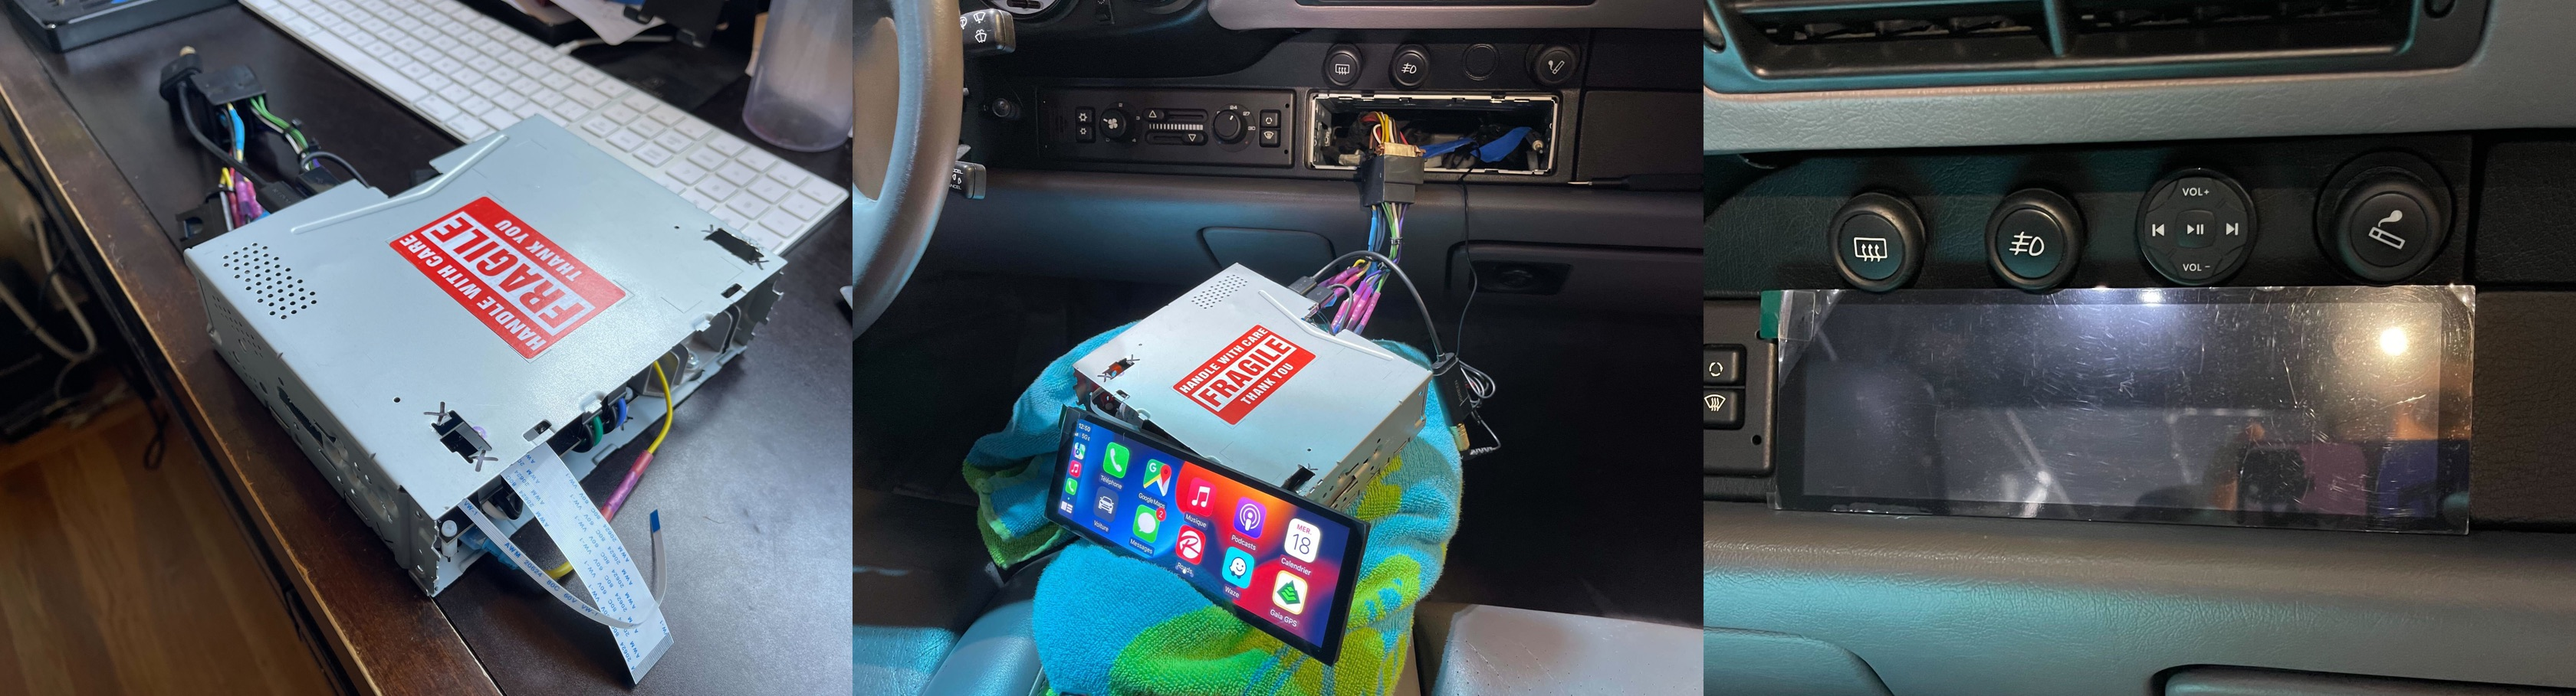
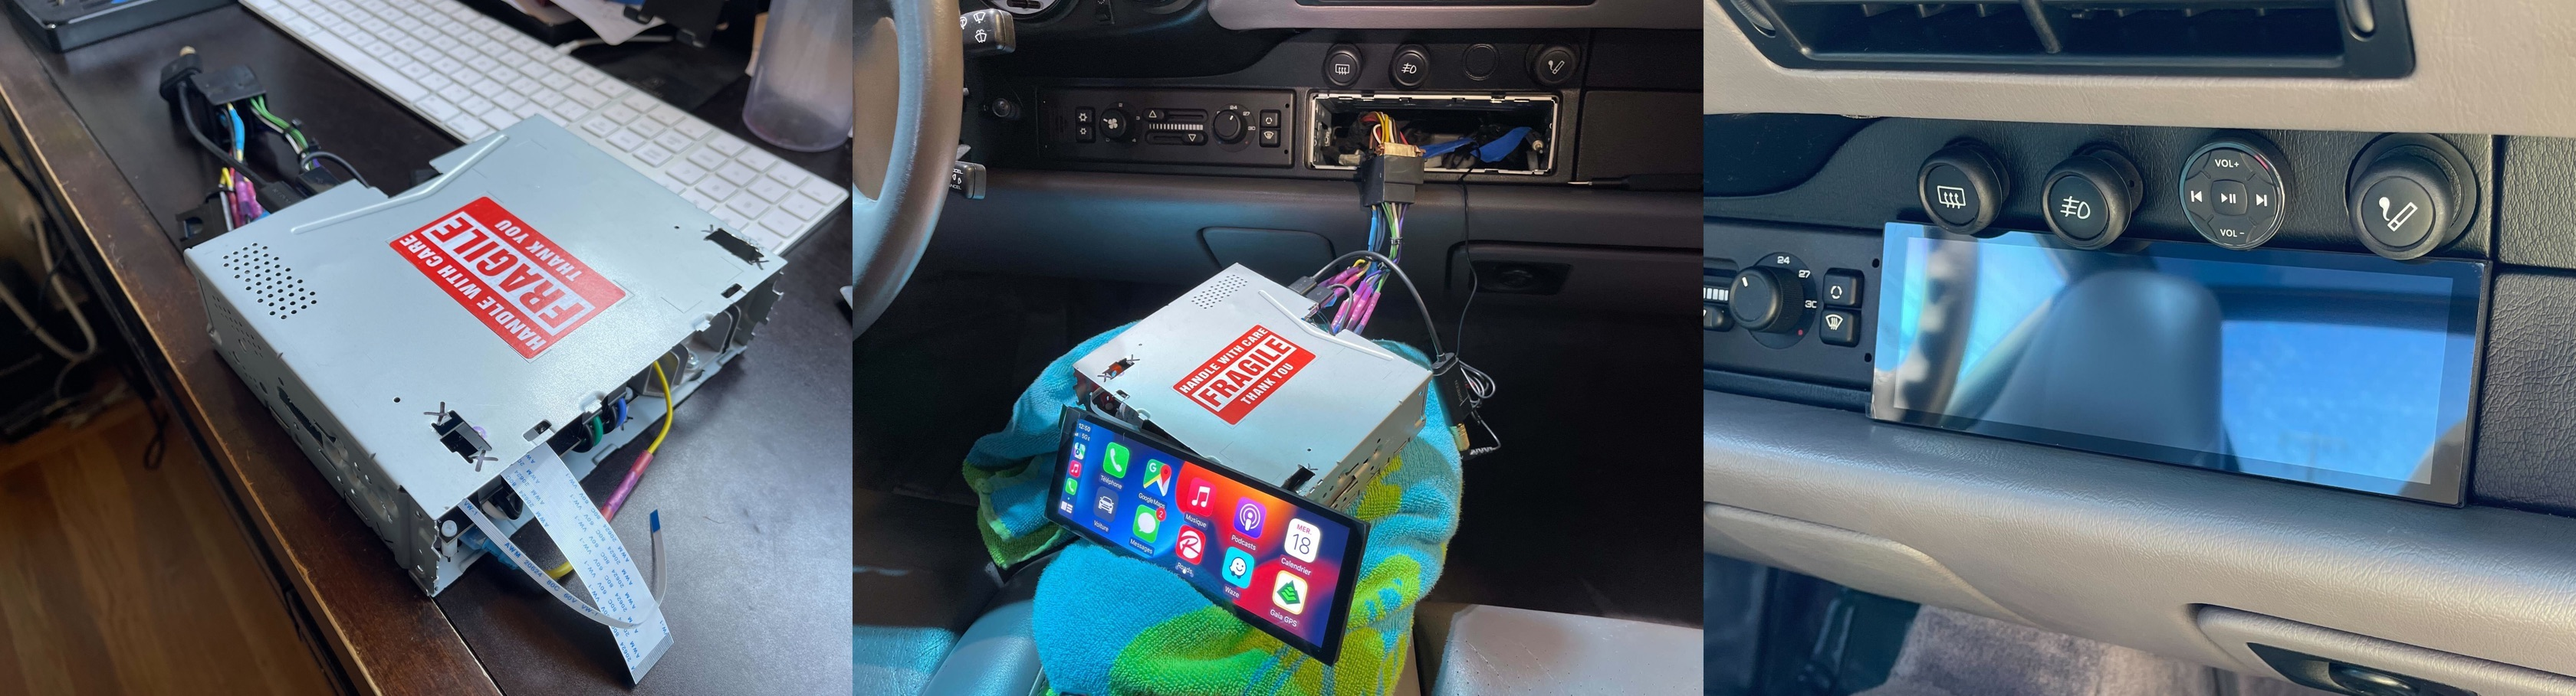
fix: Added bezel file & updated README

diff --git a/README.md b/README.md
@@ -1,8 +1,24 @@
 # PorschePi
 
-RaspberryPi based custom head unit for classic Porsche. Inspired by the [Porsche Classic Communication Management (PCCM)](https://shop.porscheusa.com/porscheoem/porsche_classic_/Highlights/porsche_classic_communication_management_pccm_91164559100.html) (91164559100), featuring a 7.9" touchscreen, wireless CarPlay and Bang & Olufsen amplifier.
+RaspberryPi based custom head unit for classic Porsche. Inspired by the [Porsche Classic Communication Management (PCCM)](https://shop.porscheusa.com/porscheoem/porsche_classic_/Highlights/porsche_classic_communication_management_pccm_91164559100.html) (91164559100), featuring a much larger touchscreen and the ability to use CarPlay wirelessly.
 
 ![Picture of separated PCB](./images/banner.jpg)
+
+## General Information
+
+In short, the goal was to create a single DIN head unit which fits in the rather restricted dashboard of classic Porsches without the need for any drilling, cutting or soldering (of the cabin), all the while making it look as OEM as possible. The results is a RPi 3 sandwiched between a Waveshare LCD controller and a Bang & Olufsen Hifiberry soundcard, with a graceful shutdown mechanism, powered USB hub, all fitted inside a removable single din unit.
+
+### Key Features
+
+- 7.9" Touchscreen
+- Bang & Olufsen amplifier w/ 4 channel output
+- Bluetooth remote for quick Play/Pause, Skip, Volume control
+- Wireless CarPlay w/ Siri supported
+- Porsche boot screen
+- Porsche logo in CarPlay interface
+- Porsche colored OAP interface (Black, Grey, Red)
+- Graceful shutdown w/ 5 minute standby mode when ignition turn off
+- 3D printed bezel
 
 ## Software
 
@@ -119,7 +135,7 @@ For the following instructions, connect a regular display and use a keyboard & m
 - If you still need to adjust your screen orientation, do the following
   - [Power] -> [Exit] out of OpenAuto
   - Go to `Screen Configuration`, `Configure`, `Screens`, `HDMI-1`, `Orientation`
-  - Using the "Rotate Touch" button behind the screen, press for until you see a green flash to rotate the touch
+  - Using the "Rotate Touch" button behind the screen, press until you see a green flash to rotate the touch. Repeat as necessary.
 
 ### Bluetooth Remote
 
@@ -187,13 +203,15 @@ If you run into issues, check out the Troubleshooting section below for some com
 
 ![Picture of unit in car](./images/picture8.jpg)
 
-🚧 WORK IN PROGRESS (START) 🚧
+Given my limited experience with 3D printing, I enlisted the help of a friend to design and print a bezel for the screen with mounting tabs to secure it to the dashboard. Use the `waveshare/bezel.STL` file to print your own copy. If you don't own a 3D printer, I recommend using an online printing service.
 
-I am currently working on getting a mounting frame 3D printed to hold the screen in place (safely), this section will be updated when completed. Please come back later for design files and instructions.
+<!-- FIXME: Image of bezel alone -->
+![3D Printed Bezel](./images/picture9.jpg)
 
-![Picture of screen mounted](./images/picture9.jpg)
+Insert the screen into the 3D printed bezel and then push its tabs into the slits of the dashboard to securely mount it. Make sure the first insert the top then bottom, as to clear the instrument knobs located above the head unit.
 
-🚧 WORK IN PROGRESS (END) 🚧
+<!-- FIXME: New image with bezel -->
+![Picture of screen mounted](./images/picture10.jpg)
 
 ## Troubleshooting
 
